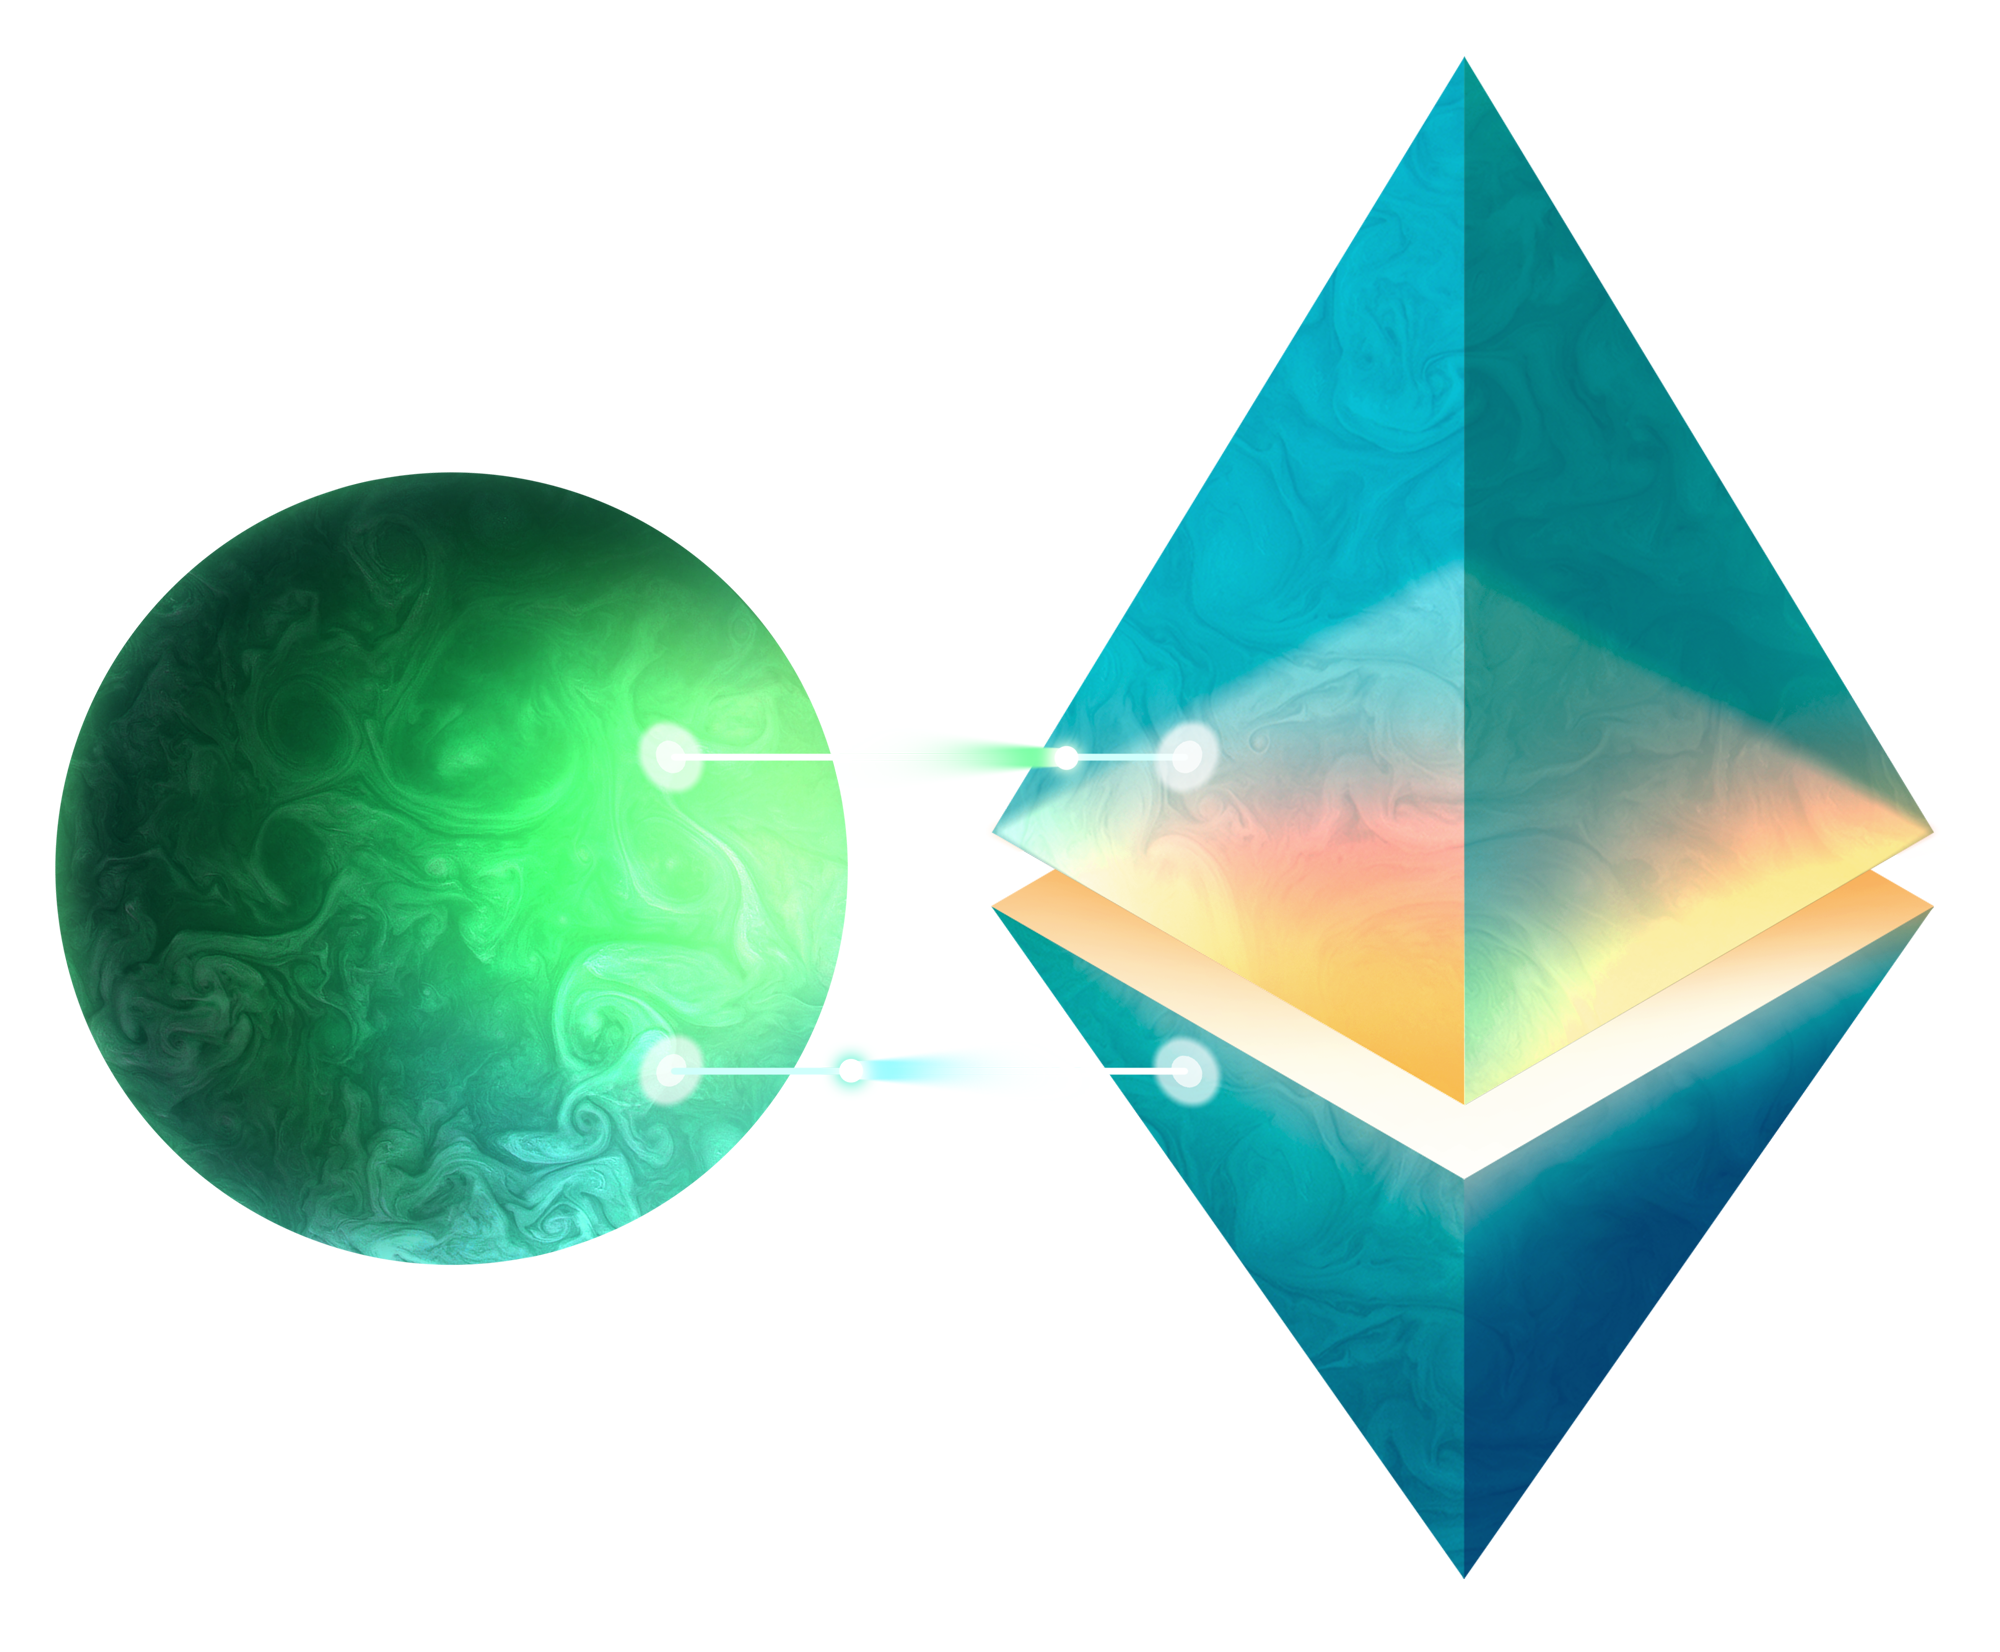
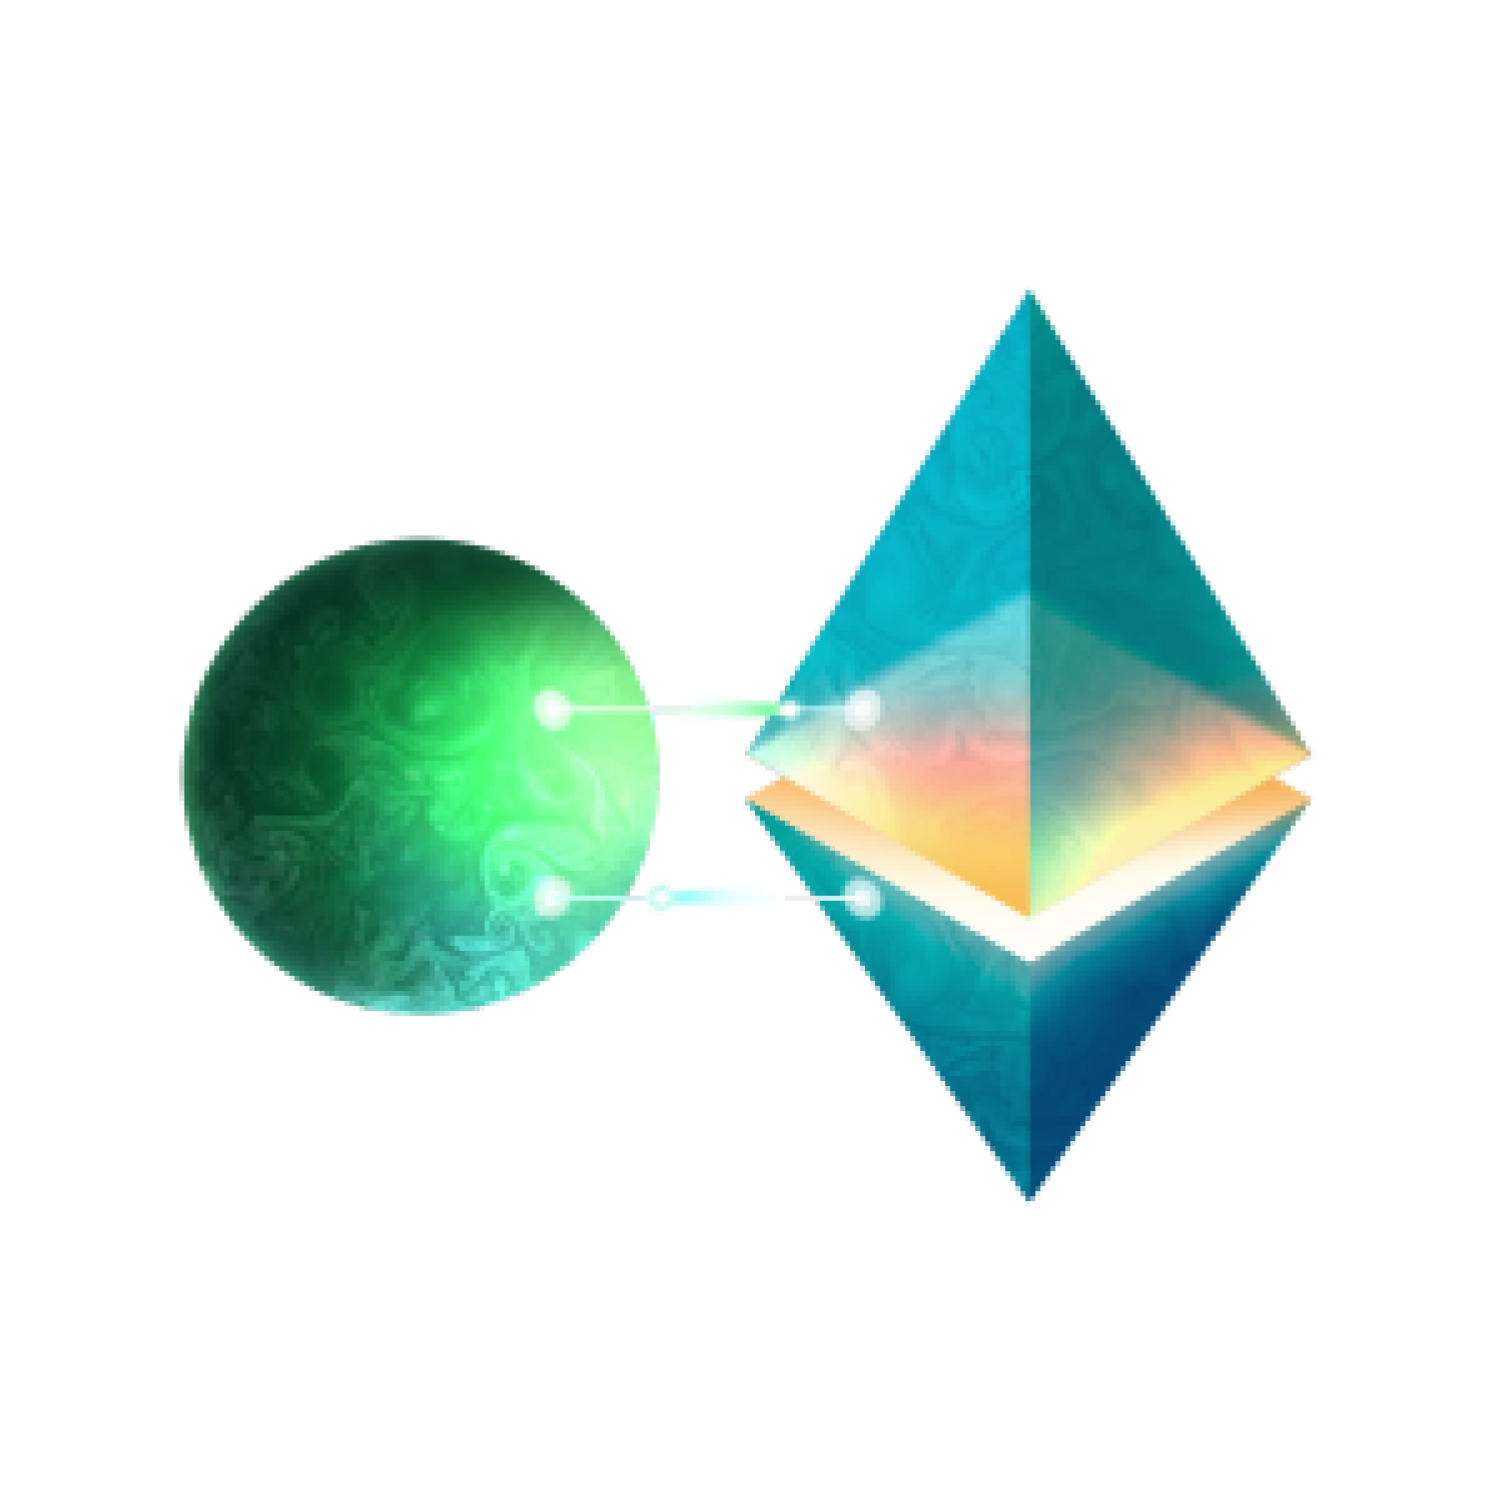
add button link

diff --git a/src/containers/Intro/index.tsx b/src/containers/Intro/index.tsx
@@ -1,9 +1,44 @@
+import { useEffect, useState } from 'react';
+
 import Image from 'next/image';
 import Link from 'next/link';
 import useTranslation from 'next-translate/useTranslation';
 
 const Intro: React.FC = () => {
   const { t } = useTranslation('home');
+  const [isMobile, setIsMobile] = useState(false);
+
+  useEffect(() => {
+    const handleResize = () => {
+      setIsMobile(window.innerWidth <= 1024);
+    };
+
+    handleResize();
+    window.addEventListener('resize', handleResize);
+
+    return () => {
+      window.removeEventListener('resize', handleResize);
+    };
+  }, []);
+
+  const handleLinkClick = (event: React.MouseEvent<HTMLAnchorElement>) => {
+    if (isMobile) return;
+
+    event.preventDefault();
+
+    const targetSectionId = event.currentTarget.getAttribute('href');
+    if (targetSectionId) {
+      const targetSection = document.querySelector(
+        targetSectionId
+      ) as HTMLElement;
+      if (targetSection) {
+        window.scrollTo({
+          top: targetSection.offsetTop,
+          behavior: 'smooth',
+        });
+      }
+    }
+  };
 
   return (
     <div className="flex w-full h-[100%] relative max-xl:pb-[140px] max-xl:w-fit max-lg:flex-col-reverse max-xl:justify-center items-center justify-between">
@@ -77,12 +112,22 @@ const Intro: React.FC = () => {
       </div>
       <div className="flex w-full justify-center">
         <Image
-          src="/assets/images/section1.png"
+          src="/assets/images/section1-min.png"
           width={440}
           height={440}
           // className="w-full"
         />
       </div>
+      <a href="#about" onClick={handleLinkClick}>
+        <button className="absolute bottom-0 left-[50%] btn-transform justify-center z-40 font-Antonio font-[18px] font-thin text-white">
+          <div>What is EcoBlock</div>
+          <Image
+            src="/assets/images/icons/chevron_down_icon.png"
+            width={24}
+            height={24}
+          />
+        </button>
+      </a>
     </div>
   );
 };

diff --git a/src/containers/ExploreEcoBlock/index.tsx b/src/containers/ExploreEcoBlock/index.tsx
@@ -1,3 +1,5 @@
+import { useEffect, useState } from 'react';
+
 import Image from 'next/image';
 import Link from 'next/link';
 import useTranslation from 'next-translate/useTranslation';
@@ -24,6 +26,40 @@ const ExploreEcoBlock: React.FC = () => {
     },
   ];
   const { t } = useTranslation('home');
+
+  const [isMobile, setIsMobile] = useState(false);
+
+  useEffect(() => {
+    const handleResize = () => {
+      setIsMobile(window.innerWidth <= 1024);
+    };
+
+    handleResize();
+    window.addEventListener('resize', handleResize);
+
+    return () => {
+      window.removeEventListener('resize', handleResize);
+    };
+  }, []);
+
+  const handleLinkClick = (event: React.MouseEvent<HTMLAnchorElement>) => {
+    if (isMobile) return;
+
+    event.preventDefault();
+
+    const targetSectionId = event.currentTarget.getAttribute('href');
+    if (targetSectionId) {
+      const targetSection = document.querySelector(
+        targetSectionId
+      ) as HTMLElement;
+      if (targetSection) {
+        window.scrollTo({
+          top: targetSection.offsetTop,
+          behavior: 'smooth',
+        });
+      }
+    }
+  };
 
   return (
     <div className="flex relative w-full h-[100%] max-md:pb-[120px] items-center justify-between flex-row-reverse max-md:justify-end max-md:flex-col">
@@ -78,6 +114,16 @@ const ExploreEcoBlock: React.FC = () => {
           );
         })}
       </div>
+      <a href="#contact" onClick={handleLinkClick}>
+        <button className="absolute bottom-0 left-[50%] btn-transform justify-center z-40 font-Antonio font-[18px] font-thin text-white">
+          <div>Contact Us</div>
+          <Image
+            src="/assets/images/icons/chevron_down_icon.png"
+            width={24}
+            height={24}
+          />
+        </button>
+      </a>
     </div>
   );
 };

diff --git a/src/containers/About/index.tsx b/src/containers/About/index.tsx
@@ -1,8 +1,44 @@
+import { useEffect, useState } from 'react';
+
 import Image from 'next/image';
 import useTranslation from 'next-translate/useTranslation';
 
 const About: React.FC = () => {
   const { t } = useTranslation('home');
+
+  const [isMobile, setIsMobile] = useState(false);
+
+  useEffect(() => {
+    const handleResize = () => {
+      setIsMobile(window.innerWidth <= 1024);
+    };
+
+    handleResize();
+    window.addEventListener('resize', handleResize);
+
+    return () => {
+      window.removeEventListener('resize', handleResize);
+    };
+  }, []);
+
+  const handleLinkClick = (event: React.MouseEvent<HTMLAnchorElement>) => {
+    if (isMobile) return;
+
+    event.preventDefault();
+
+    const targetSectionId = event.currentTarget.getAttribute('href');
+    if (targetSectionId) {
+      const targetSection = document.querySelector(
+        targetSectionId
+      ) as HTMLElement;
+      if (targetSection) {
+        window.scrollTo({
+          top: targetSection.offsetTop,
+          behavior: 'smooth',
+        });
+      }
+    }
+  };
 
   return (
     <div className="flex relative w-full h-[100%] max-xl:pb-[120px] items-center max-xl:justify-center max-lg:flex-col-reverse justify-between flex-row-reverse">
@@ -30,6 +66,16 @@ const About: React.FC = () => {
           className="w-full"
         />
       </div>
+      <a href="#why" onClick={handleLinkClick} className="z-40">
+        <button className="absolute bottom-0 left-[50%] btn-transform justify-center z-40 font-Antonio font-[18px] font-thin text-white">
+          <div>Why choose EcoBlock</div>
+          <Image
+            src="/assets/images/icons/chevron_down_icon.png"
+            width={24}
+            height={24}
+          />
+        </button>
+      </a>
     </div>
   );
 };

diff --git a/src/containers/ChooseEcoBlock/index.tsx b/src/containers/ChooseEcoBlock/index.tsx
@@ -1,3 +1,5 @@
+import { useEffect, useState } from 'react';
+
 import Image from 'next/image';
 import useTranslation from 'next-translate/useTranslation';
 
@@ -26,6 +28,40 @@ const ChooseEcoBlock: React.FC = () => {
       content: 'explore_evm',
     },
   ];
+
+  const [isMobile, setIsMobile] = useState(false);
+
+  useEffect(() => {
+    const handleResize = () => {
+      setIsMobile(window.innerWidth <= 1024);
+    };
+
+    handleResize();
+    window.addEventListener('resize', handleResize);
+
+    return () => {
+      window.removeEventListener('resize', handleResize);
+    };
+  }, []);
+
+  const handleLinkClick = (event: React.MouseEvent<HTMLAnchorElement>) => {
+    if (isMobile) return;
+
+    event.preventDefault();
+
+    const targetSectionId = event.currentTarget.getAttribute('href');
+    if (targetSectionId) {
+      const targetSection = document.querySelector(
+        targetSectionId
+      ) as HTMLElement;
+      if (targetSection) {
+        window.scrollTo({
+          top: targetSection.offsetTop,
+          behavior: 'smooth',
+        });
+      }
+    }
+  };
 
   return (
     <div className="w-full relative h-[100%] items-center justify-between max-xl:pb-[100px] pt-[100px] max-w-[1288px]">
@@ -69,6 +105,16 @@ const ChooseEcoBlock: React.FC = () => {
           );
         })}
       </div>
+      <a href="#explore" onClick={handleLinkClick}>
+        <button className="absolute bottom-0 left-[50%] btn-transform justify-center z-40 font-Antonio font-[18px] font-thin text-white">
+          <div>Explore EcoBlock</div>
+          <Image
+            src="/assets/images/icons/chevron_down_icon.png"
+            width={24}
+            height={24}
+          />
+        </button>
+      </a>
     </div>
   );
 };
